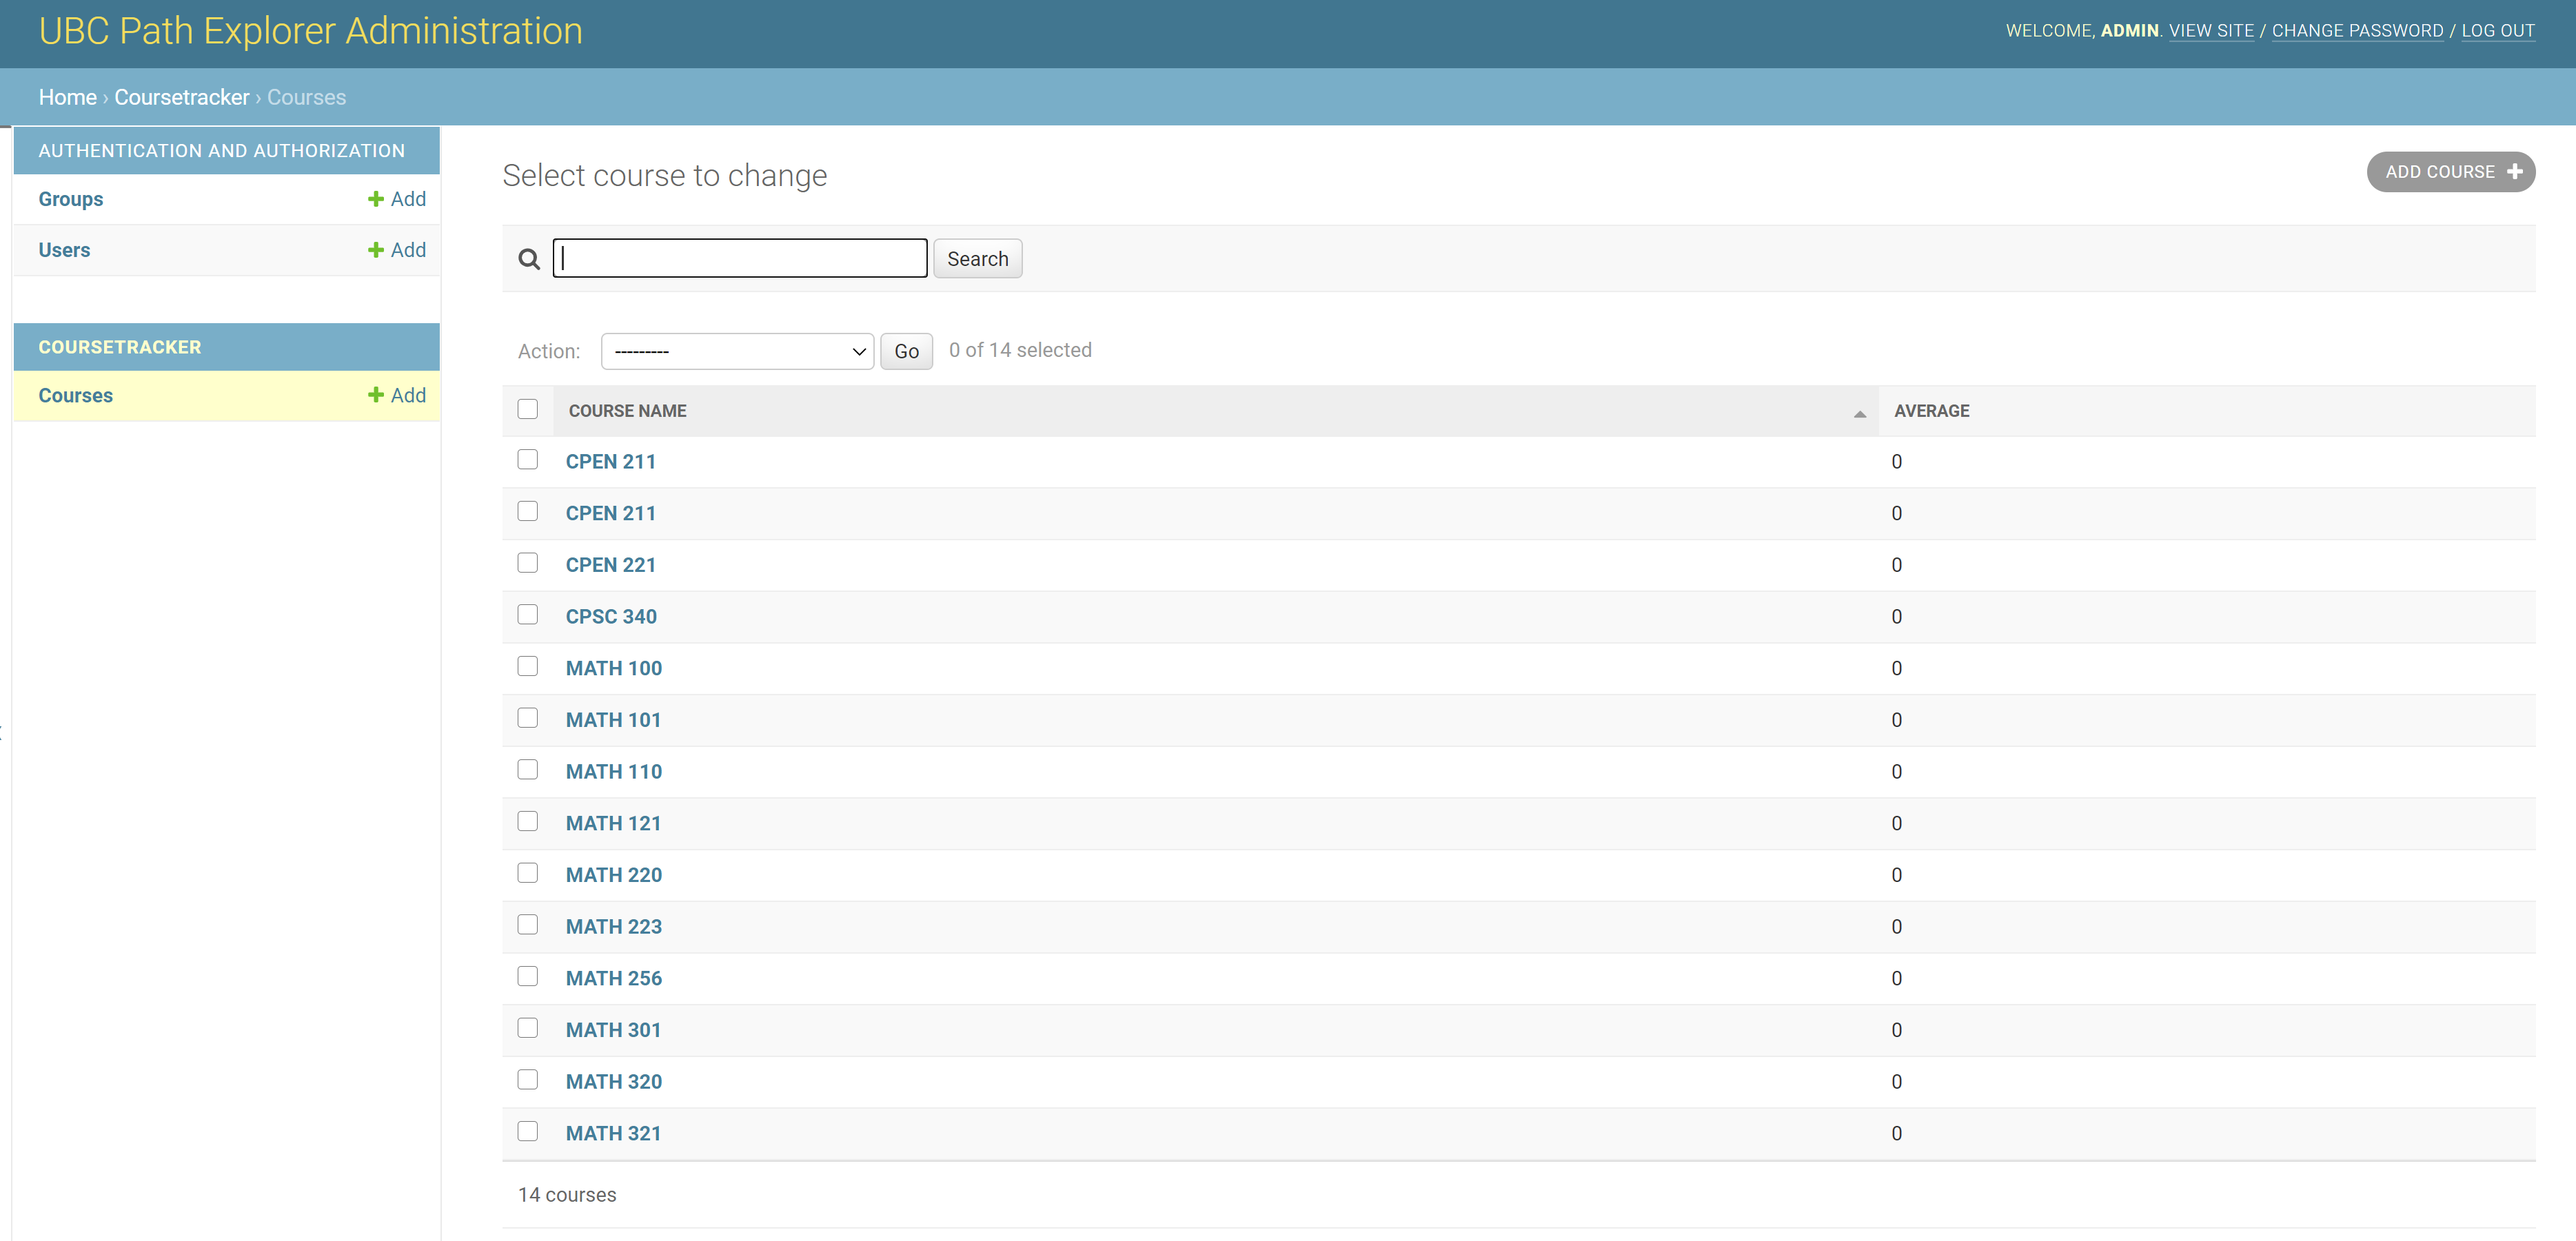
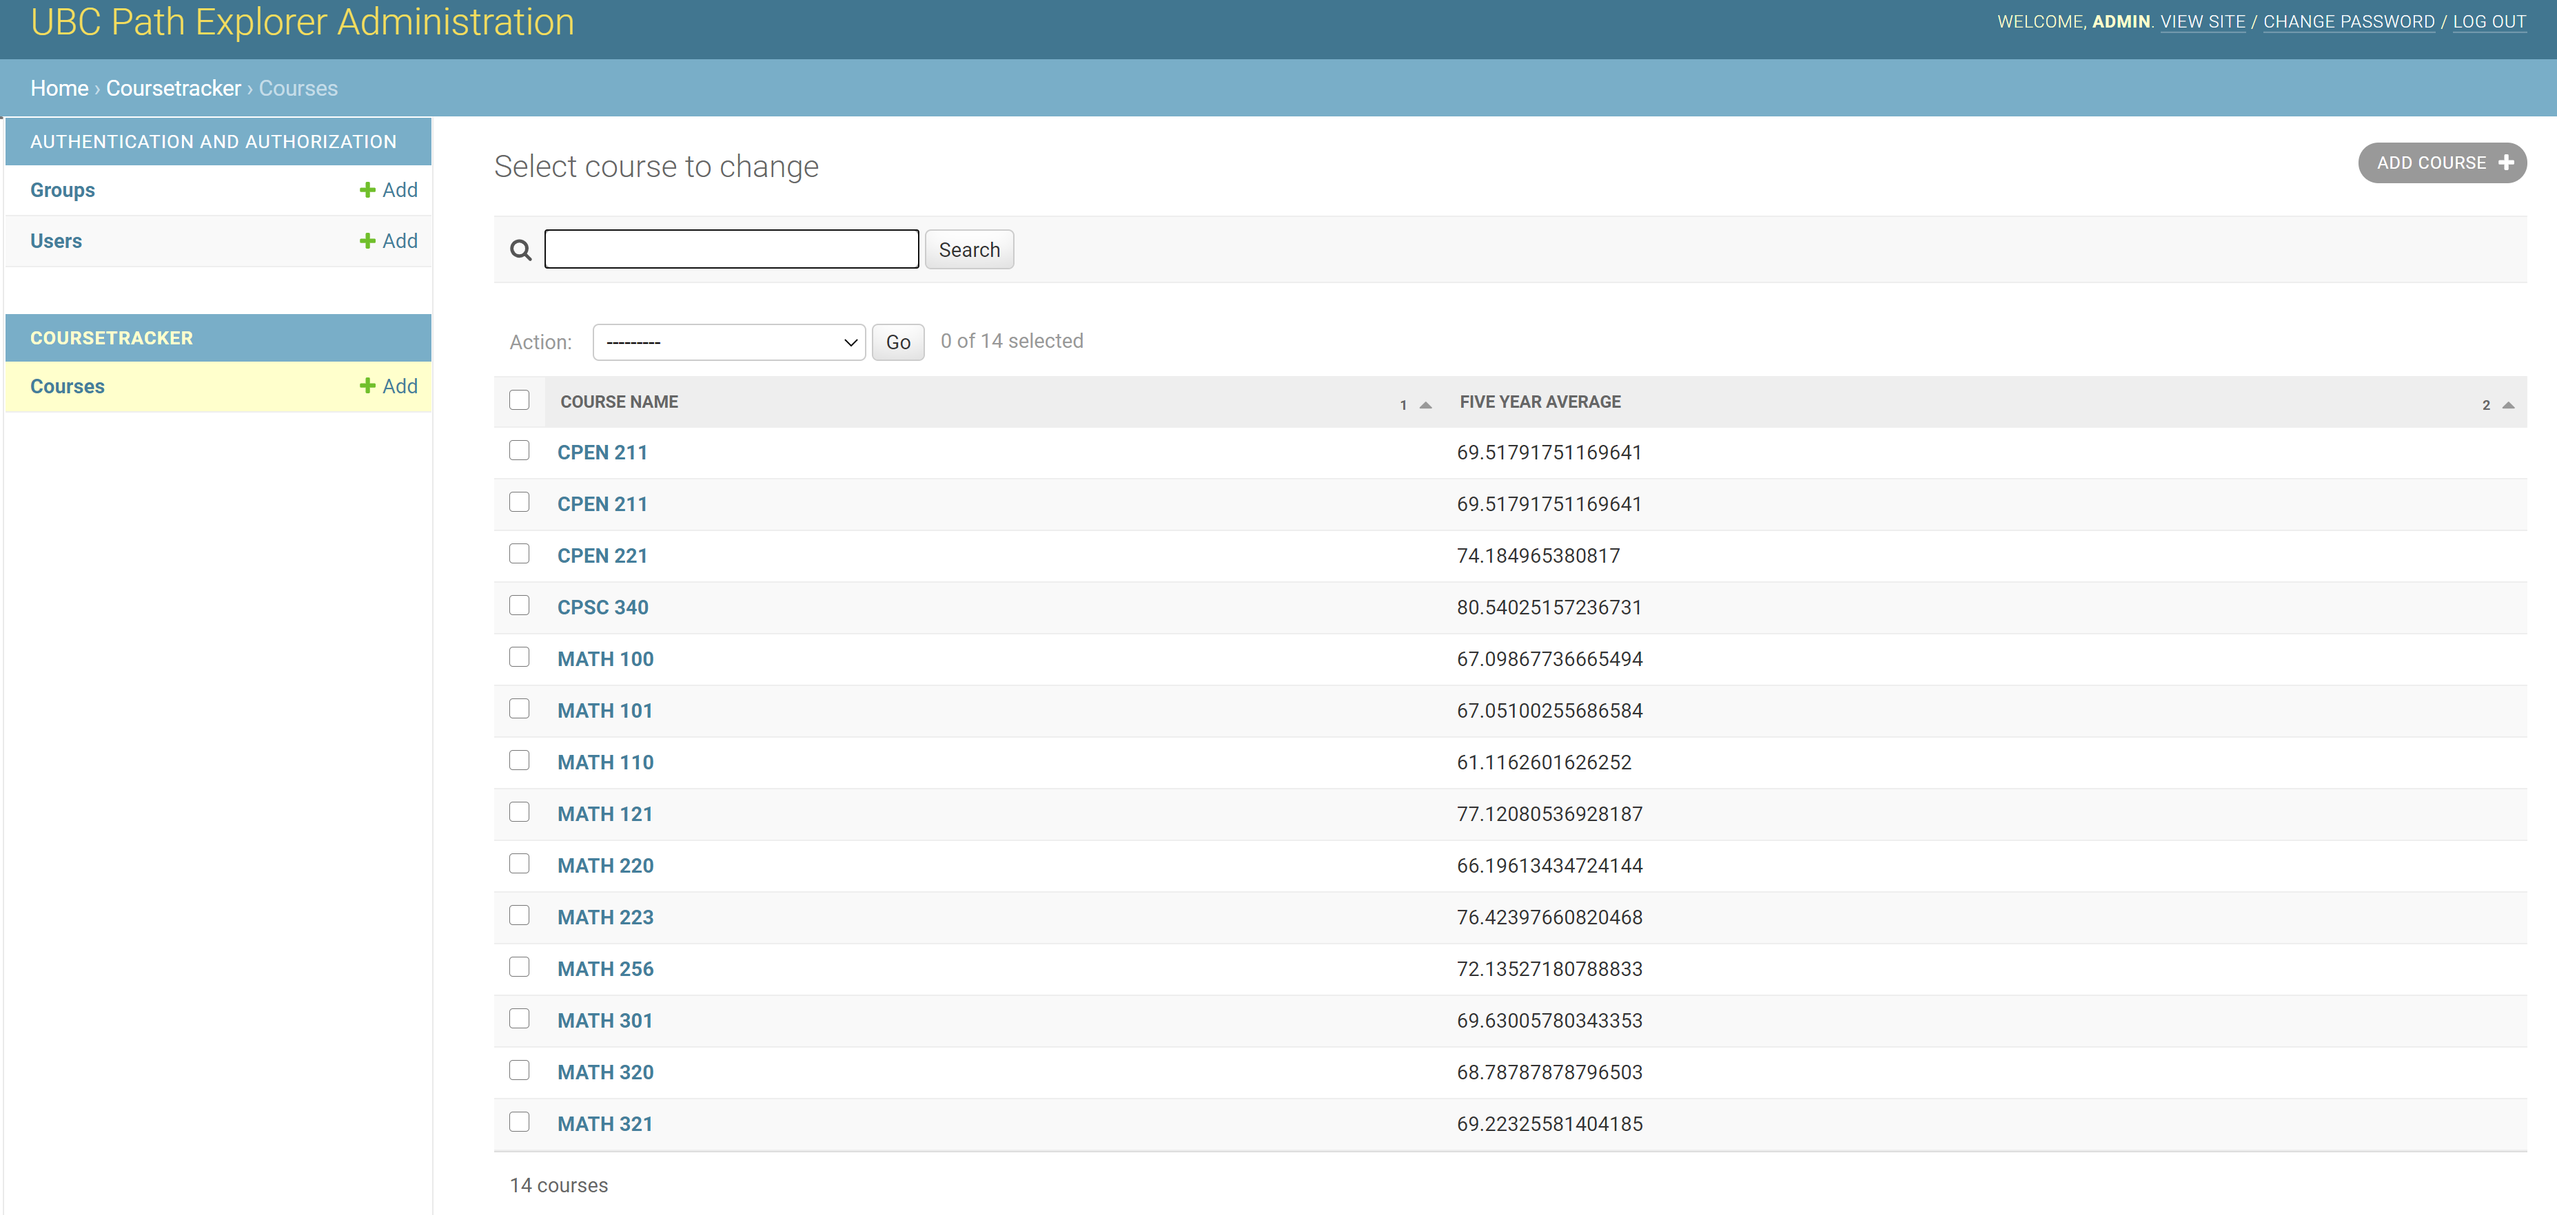
removed extra field, updated img

diff --git a/coursetracker/admin.py b/coursetracker/admin.py
@@ -14,7 +14,7 @@ class CourseAdmin(admin.ModelAdmin):
         ('Related Courses', {'fields': ['corequisites', 'dependencies']})
     ]
     # fields to display in page that displays all questions
-    list_display = ('course_name', 'average')
+    list_display = ('course_name', 'five_year_average')
     search_fields = ['course_name']  # search textbox by question_text
 
 

diff --git a/coursetracker/migrations/0014_remove_course_average.py b/coursetracker/migrations/0014_remove_course_average.py
@@ -1,0 +1,17 @@
+# Generated by Django 3.1.1 on 2021-01-09 02:37
+
+from django.db import migrations
+
+
+class Migration(migrations.Migration):
+
+    dependencies = [
+        ('coursetracker', '0013_auto_20210103_1432'),
+    ]
+
+    operations = [
+        migrations.RemoveField(
+            model_name='course',
+            name='average',
+        ),
+    ]

diff --git a/coursetracker/models.py b/coursetracker/models.py
@@ -5,7 +5,6 @@ from django.db import models
 
 class Course(models.Model):
     course_name = models.CharField(max_length=200, default='')
-    average = models.CharField(max_length=200, default='0')
     five_year_average = models.CharField(max_length=200, default='0')
     # Branch Additions
     lowest_average = models.CharField(max_length=200, default='0')
